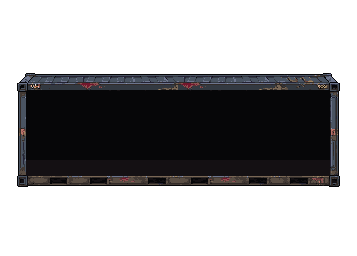
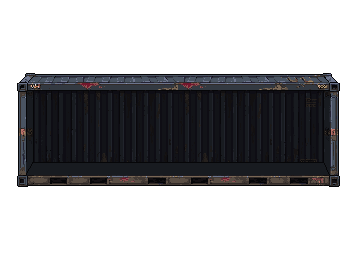
Hochseecontainer mit Daniels gemaltem Boden und Rückwand, Werkstätten 16 px nach hinten
Claude-Session: https://claude.ai/code/session_01DEYRZv1hg5Cb3Eyv625qvz

diff --git a/engine/schema.js b/engine/schema.js
@@ -466,7 +466,7 @@ export const AREAS = {
       { title: 'Innenraum im Camp', fields: [range('inside.x', 'Innenraum von – bis', { unit: 'Bildpixel', hint: 'Waagrecht im Bild des Aussehens (ungespiegelt). Die Werkstätten teilen sich diese Breite' }),
         range('inside.y', 'Innenraum oben – Boden', { unit: 'Bildpixel', hint: 'Der Boden ist eine Plattform: Leyla kann hineinspringen' }), bool('flip', 'Gespiegelt', { hint: 'Zusätzlich zu „Schaut nach links“ des Assets' }),
         num('deck', 'Dachkante', { unit: 'Bildpixel', hint: 'Höhe im Bild, auf der ein gestapelter Container steht (seine Unterkante = Ankerpunkt seines Bilds). Leer = Oberkante des Bilds' }),
-        bool('floorStrip', 'Boden zeichnen', { hint: 'Malt im Innenraum den Boden mit Tiefe (Camp › Boden im Innenraum), für Container, deren Bild keinen eigenen Boden hat' }), num('benchScale', 'Maßstab der Werkstätten', { unit: '%', min: 30, max: 300, hint: 'Korrektur zum gemeinsamen Maßstab der Werkstatt-Bilder (Camp › Rig-Ansicht) in diesem Container, z. B. 130 in den hohen Hochseecontainern. Leer = 100' }), bool('cropAbove', 'Dachaufbau abschneiden', { hint: 'Steht etwas obendrauf, wird das Bild über der Dachkante weggeschnitten (Kisten, Antennen, Schüssel), damit der Container direkt auf dem Dach sitzt. Standard an' })] }],
+        num('benchInset', 'Werkstätten nach hinten', { unit: 'px', min: 0, hint: 'Ist der Boden im Bild gemalt (mit Tiefe), stehen die Werkstatt-Bilder so weit hinter seiner Vorderkante. Leer = Camp › Boden im Innenraum, falls „Boden zeichnen“ an ist' }), bool('floorStrip', 'Boden zeichnen', { hint: 'Malt im Innenraum den Boden mit Tiefe (Camp › Boden im Innenraum), für Container, deren Bild keinen eigenen Boden hat' }), num('benchScale', 'Maßstab der Werkstätten', { unit: '%', min: 30, max: 300, hint: 'Korrektur zum gemeinsamen Maßstab der Werkstatt-Bilder (Camp › Rig-Ansicht) in diesem Container, z. B. 130 in den hohen Hochseecontainern. Leer = 100' }), bool('cropAbove', 'Dachaufbau abschneiden', { hint: 'Steht etwas obendrauf, wird das Bild über der Dachkante weggeschnitten (Kisten, Antennen, Schüssel), damit der Container direkt auf dem Dach sitzt. Standard an' })] }],
   },
   workshops: {
     name: 'Werkstätten', singular: 'Werkstatt', icon: 'factory', file: 'data/workshops.json', kind: 'catalog', groupBy: { key: 'function', options: WORKSHOP_FUNCTIONS },

diff --git a/game/play/camp.js b/game/play/camp.js
@@ -445,7 +445,7 @@ export class Camp {
     const g = s.make.graphics({}, false), h = u.floorY - u.inTop, key = `camp_unit_${u.ui}`, shades = [];
     // a floor with depth for low top-down workshop pictures (Camp › Boden im Innenraum, Daniel 09.11.2026): the back feet stand on it,
     // Leyla walks along its front edge; pixel style in three tones, seams in the sheet
-    const F = R.floor || {}, depth = u.def.floorStrip ? F.depth || 0 : 0, inset = depth ? Math.min(F.inset || 0, depth) : 0;
+    const F = R.floor || {}, depth = u.def.floorStrip ? F.depth || 0 : 0, inset = u.def.benchInset ?? (depth ? Math.min(F.inset || 0, depth) : 0);
     if (depth > 0) {
       const fg = s.add.graphics(), x0 = u.in0, x1 = u.in0 + u.cell * u.places, y1 = u.floorY, y0 = y1 - depth, base = col(F.color || '#3a3f48');
       const tone = k => Phaser.Display.Color.IntegerToColor(base).darken(k).color, lift = k => Phaser.Display.Color.IntegerToColor(base).lighten(k).color;

diff --git a/CLAUDE.md b/CLAUDE.md
@@ -158,7 +158,7 @@ output/                Bilder vom Werkstatt-Test (nicht im Git)
 - **Kein Hängenbleiben beim Ziehen** (Daniel, 08.11.2026: „manchmal bleibt man im Drop-to-Händler-Modus hängen“): wird die Maustaste außerhalb des Fensters losgelassen, kam kein Mouseup an und das Teil klebte am Zeiger. Jetzt: Mausbewegung ohne gedrückte Taste oder Fenster verliert den Fokus = das Teil fliegt zurück (nichts wird verkauft). Beim Ziehen wird der Händler-Katalog durchsichtig und lässt den Zeiger durch (`.bm.dragging`). Geprüft in `build_test` (verlorenes Mouseup über CDP). Die Browser- und Unit-Tests setzen ihr Geld jetzt selbst (Daniel probiert Startgeld 40.000 Δ aus).
 - **Werkstatt-Bilder mit Licht & Effekten** (Daniel, 08.11.2026: „Werkbank-Grafiken einbauen, cosy Beleuchtung und Effekte wie Rauch, Funktionen und Micro-Animationen“, „das Regal hat mehrere Zustände abhängig vom Füllzustand“, „Vorschau im Auswahlmenü beim Händler“, „ausgebaute Werkbänke liegen in Kisten, Platzhalter mit Text, die spätere Grafik hat ein Label“). Neun Bilder von Daniel in `assets/workshops/` (Werkbank, Kochnische/Küche/Foodtruck, Lagerregal voll + leer, Waffenkammer, Warroom, Chill Area, Drohnenwerkstatt, Schlafkoje, Generator), Anker = Füße/Boden.
   - **Im Rig** (`game/play/benches.js`, `Benches`): `drawUnit` stellt das Aussehen auf den Innenboden. **Ein Maßstab für alle** (Daniel, 08.11.2026, Variante C aus dem Vergleichsbild: „×1,2, 2 Plätze“): Camp › Rig-Ansicht › „Maßstab der Werkstatt-Bilder“ 1,2 (leer/0 = jedes Bild passt sich wie vorher in seinen Platz ein, „Breite im Platz“), dazu Werkstätten › Aussehen im Rig › „Maßstab %“ als Korrektur (Lagerregal 72 %, die Werkbank hat seit 09.11.2026 nachmittags Daniels neues Bild `workbench.png` (`ws_workbench`, Lochwand, füllt die Fläche wie die anderen, keine Korrektur mehr; Effekte neu: Neonröhre, zwei Holo-Schirme, zwei kleine Anzeigen, Funken + Rauch an der Werkfläche, funkelnde Server-LEDs); die alte `metal_bench.png` (`ws_metal_bench`) bleibt als Asset. **Pixel-Magie** (Daniel: „die Ränder der Werkbänke ragen nicht über die Ränder der Container hinaus“): jedes Bild wird auf ganze Bildpixel an seinem Platz im Innenraum abgeschnitten (`clip`, `cropTo`), Effekte außerhalb fallen weg; darüber ein Schatten in 3 Stufen unter der Decke, an den Wänden und zwischen zwei Plätzen. **Leyla steht immer davor** (Daniel): Bildschirme, LEDs, Funken, Dampf, Fische liegen auf Tiefe −19,9 (hinter Leyla 10, vor den Bildern), die Nacht-Abdunklung wird für sie ausgeglichen (`boost`); nur die großen Raumlichter (Art Licht) leuchten über alles. Wohnanhänger und Modul-Anhänger haben dafür **2 Plätze**. **Füllstand:** „Aussehen leer“ + Tabelle „Fächer“ (Oberkanten in Bildpixeln): das leere Bild unten, das volle darüber, abgeschnitten ab dem obersten gefüllten Fach (belegte Felder / alle Felder des Lagers, das unterste Fach zuerst, `refill` alle 0,4 s).
-  - **Boden mit Tiefe für low top-down** (Daniel, 09.11.2026: „ich mag low top down, das macht nur die Handhabung der Container kompliziert“; Test A aus Vorschlag A + C): Camp › Boden im Innenraum (`rig.floor`: Bodentiefe 48 px, Werkstätten nach hinten 10 px, Bodenfarbe, Fugen alle 96 px) malt in Containern mit **Boden zeichnen** (`floorStrip`, an den drei Hochseecontainern) einen Streifen Boden vor der Rückwand (3 Töne, helle Vorderkante, Fugen), die Werkstatt-Bilder stehen um „nach hinten“ höher, Leyla läuft an der Vorderkante. Anker der Werkstatt-Bilder = vordere Füße (unterste Pixel). Vergleichsbild ohne / 48 / 72 px am 09.11.2026 an Daniel.
+  - **Boden mit Tiefe für low top-down** (Daniel, 09.11.2026: „ich mag low top down, das macht nur die Handhabung der Container kompliziert“; Test A aus Vorschlag A + C): Camp › Boden im Innenraum (`rig.floor`: Bodentiefe 48 px, Werkstätten nach hinten 10 px, Bodenfarbe, Fugen alle 96 px) malt in Containern mit **Boden zeichnen** (`floorStrip`, an den drei Hochseecontainern) einen Streifen Boden vor der Rückwand (3 Töne, helle Vorderkante, Fugen), die Werkstatt-Bilder stehen um „nach hinten“ höher, Leyla läuft an der Vorderkante. Anker der Werkstatt-Bilder = vordere Füße (unterste Pixel). Vergleichsbild ohne / 48 / 72 px am 09.11.2026 an Daniel. **Seit 09.11.2026 abends gemalt:** Daniel hat Boden (Fuge zur Rückwand y 162, Vorderkante 175 = 13 Bildpixel, im Spiel 52 px) und Rückwand mit Rillen in die offene Hülle gemalt (`container_source.png`, alte Fassung `container_source_v1.png`, Naht weiter 77–177); „Boden zeichnen“ ist an den Hochseecontainern wieder aus, stattdessen Container › **Werkstätten nach hinten** (`benchInset`, 16 px, Vergleich 0 / 16 / 32): die Werkstatt-Bilder stehen 16 px hinter der Vorderkante. Der Code-Boden bleibt für Container ohne gemalten Boden.
   - **Licht & Effekte** (Tabelle `fx`, alles in Bildpixeln): Licht (Radius, Flackern), Bildschirm (Glühen + rollender Streifen), Dampf, Rauch, Funken (Schauer pro Minute, mit Blitz), Flamme, LED, Lichter funkeln (findet die hellen bunten Pixel im Bereich selbst, z. B. Lichterketten und Server-LEDs), Blasen, Fische, Lavalampe, Druckkopf, Glanz. „Wann“: Immer, Abends, In der Nähe (Leyla davor), Bei Benutzung (E-Punkt aktiv, Koch-/Herstellen-Fenster dieser Werkstatt offen oder Ausruhen läuft); „Sonst %“ = Stärke sonst, weich überblendet. **Kein Strom** = Verbraucher dunkel (nur die Fische schwimmen). Hinter dem Koch-/Herstellen-Fenster und Menüs laufen die Effekte weiter (`scene.update`). Im Bau-Modus aus.
   - **Benutzen** (Werkstätten › Benutzen: Knopf, Dauer, Heilt, Meldung, Mama-Bot dockt an): Chill Area „Fernsehen und abhängen“ (1 h, 20 %, Buff Gemütlich, der Fernseher geht an), Drohnenwerkstatt „Mama-Bot warten“ (30 min, die Drohne fliegt hin und setzt sich auf die Werkbank, `drone.dock`).
   - **Verpackt auf dem Schrottplatz** (`crateTexture`, Camp › Verpackte Werkstätten): Kiste aus Code mit Papier-Label und dem Namen; mit Grafik („Kiste“) sitzt der Name auf „Label Mitte“/„Label Größe“ (Bildpixel), Schrift und Farbe einstellbar. Beim Ziehen hängt die Werkstatt selbst am Zeiger (`workshopTexture` = Bild, auch auf den Van-Plätzen).
@@ -194,6 +194,7 @@ Cloudflare Worker `nomadgirl` (Workers Builds, mit GitHub verbunden): baut bei j
 
 ## Stand
 
+- 09.11.2026 abends: **Hochseecontainer mit gemaltem Boden und Rückwand** (Daniel), Werkstätten 16 px nach hinten.
 - 09.11.2026 nachmittags: **Boden mit Tiefe** in den Hochseecontainern (Test für low top-down Werkstatt-Bilder, 48 px).
 - 09.11.2026 nachmittags: **Oben im Stapel laufen** (Leiter rückt unter kurze Container, Stirnwände), **neue Werkbank** (Daniels Bild mit Lochwand, Effekte neu gesetzt); `stack_test` 15.
 - 09.11.2026 nachmittags: **20 neue Gegenstände, 8 Rezepte, 4 Buffs** aus den Symbolen (Ramen, Sushi, Bento, Medikit, Zahnräder …), Beute und Tipps dazu.

diff --git a/docs/assets.md b/docs/assets.md
@@ -95,6 +95,7 @@ Pfade relativ zu `projects/nomadgirl/`. In Klammern die ID im Werkstatt-Bereich 
 | `assets/items/icons_gear.png` | Symbol-Raster Ausrüstung & Material: 8 × 8 Icons à 32 × 32 px, Pixel-Art (Waffen, Werkzeug, Material, Elektronik, Medizin) (`icons_gear`) | KI-generiert (Daniel, Sheet-Export mit Prompt) | 09.11.2026 |
 | `assets/items/icons_kitchen.png` | Symbol-Raster Küche & Essen: 8 × 8 Icons à 32 × 32 px, Pixel-Art (Geräte, Zutaten, Gerichte, Gewürze, Rezepte) (`icons_kitchen`) | KI-generiert (Daniel, Sheet-Export mit Prompt) | 09.11.2026 |
 | `assets/workshops/workbench.png` | Werkbank mit Lochwand (Allzweck): 256 × 256, Füße bei y 205, ersetzt `metal_bench.png` an der Werkbank (`ws_workbench`) | KI-generiert (Daniel) | 09.11.2026 |
+| `assets/rig/container_source.png` (neu) | Hochseecontainer offen + zu, offene Hülle jetzt mit gemaltem Boden (13 px Tiefe) und Rückwand mit Rillen; alte Fassung `container_source_v1.png` | Pixel-Art von Daniel (KI + Handarbeit) | 09.11.2026 |
 
 ## Ordner
 
